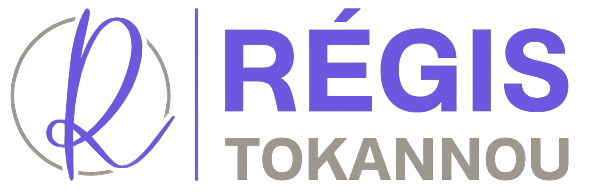
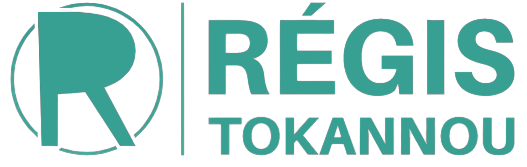
update 27-06-2021

diff --git a/assets/css/style.css b/assets/css/style.css
@@ -9,11 +9,11 @@
     --header-height: 3rem;
 
     /* Choix d'une couleur */
-    --hue-color: 250; /* Mauve 250 - Vert 142 - Bleu 230 - Rose 340 */
+    --hue-color: 173; /* Mauve 250 - Vert 142 - Bleu 230 - Rose 340 */
 
     /* Mode des couleurs sous forme HSL (Hue ou degré - Saturation - Lightness) */
-    --first-color: hsl(var(--hue-color), 69%, 61%);
-    --first-color-second: hsl(var(--hue-color), 69%, 61%);
+    --first-color: hsl(var(--hue-color), 49%, 42%);
+    --first-color-second: hsl(var(--hue-color), 49%, 42%);
     --first-color-alt: hsl(var(--hue-color), 57%, 53%);
     --first-color-lighter: hsl(var(--hue-color), 92%, 85%);
     --title-color: hsl(var(--hue-color), 8%, 15%);
